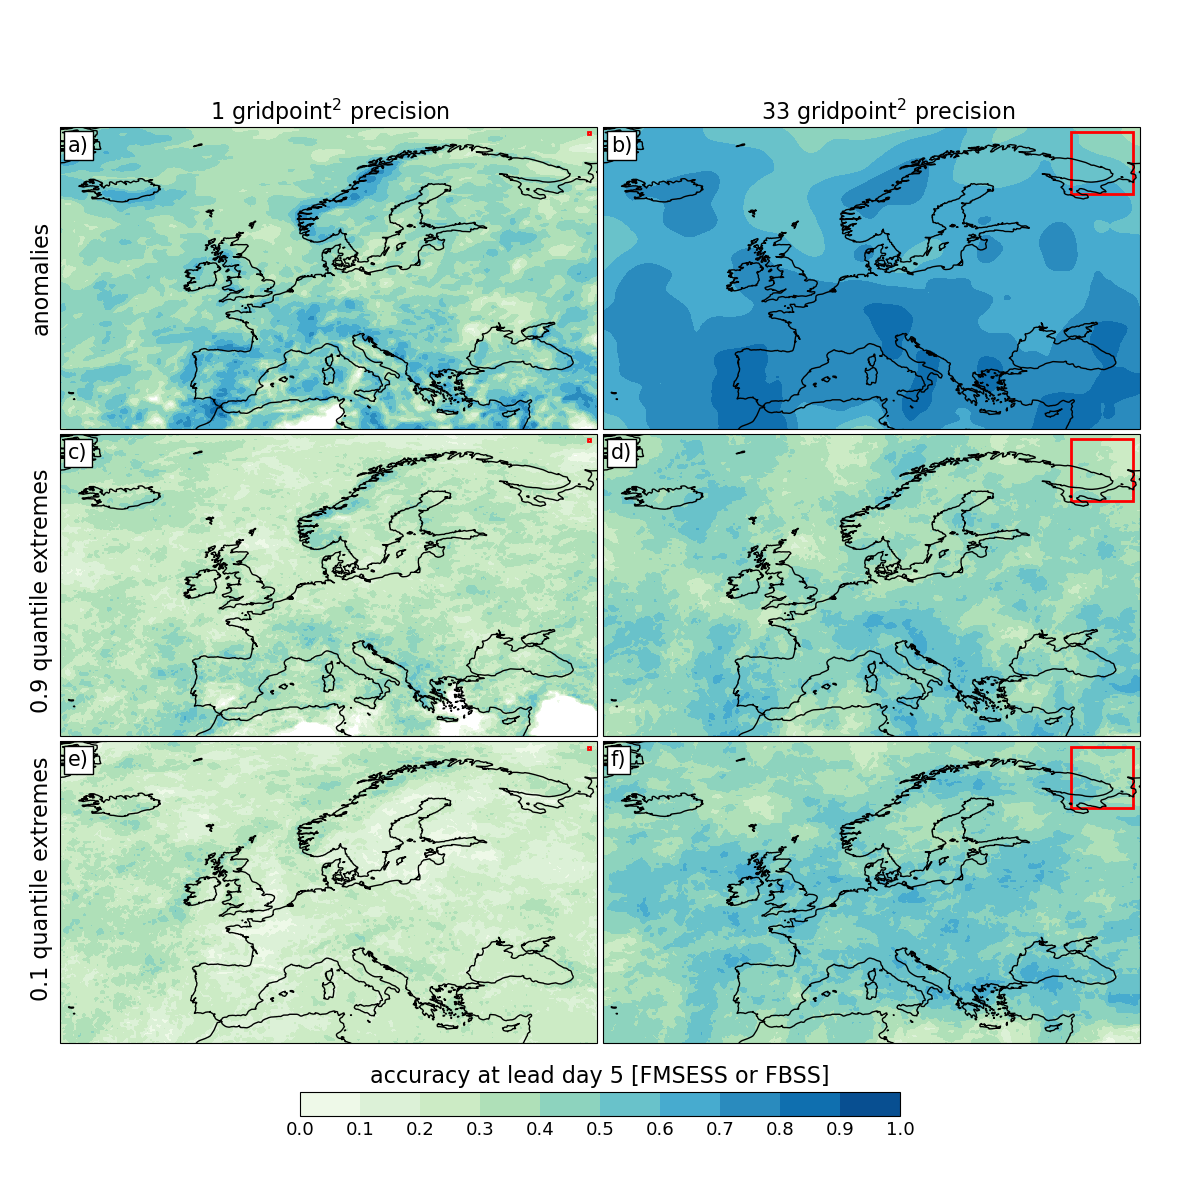
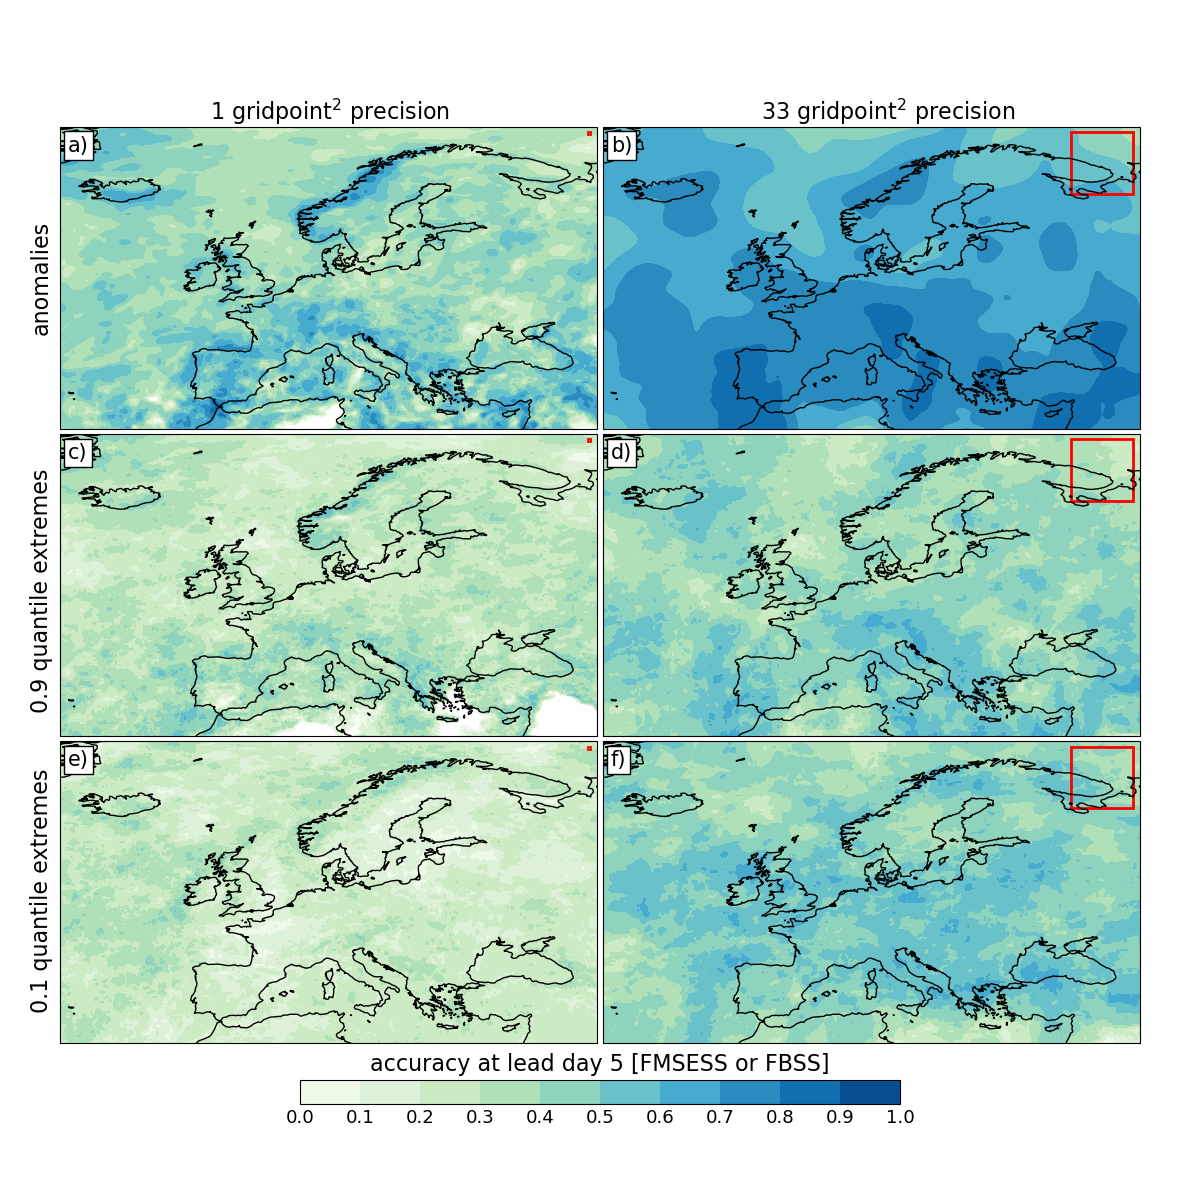
update

Changed region(s): [[0.2467, 0.8633, 0.7708, 0.9558], [0.0308, 0.6475, 0.0617, 0.8325]]

diff --git a/code/plot/plot-fig-02.py b/code/plot/plot-fig-02.py
@@ -64,7 +64,6 @@ figsize    = np.array([12,12])
 fig,ax     = plt.subplots(nrows=3,ncols=2,figsize=(figsize[0],figsize[1]),subplot_kw={'projection': ccrs.PlateCarree(central_longitude=0.0)})
 ax         = ax.ravel()
 
-#fig.subplots_adjust(right=0.95, left=0.05,top=0.975,bottom=0.05,hspace=-0.25,wspace=0.025)
 fig.subplots_adjust(right=0.95, left=0.05,top=0.975,bottom=0.05,hspace=-0.38,wspace=0.01)
 
 setup_subplot_xy(1, ax[0], 'a)', ds1, clevs, cmap, fontsize)
@@ -74,7 +73,7 @@ setup_subplot_xy(4, ax[3], 'd)', ds4, clevs, cmap, fontsize)
 setup_subplot_xy(5, ax[4], 'e)',ds5, clevs, cmap, fontsize)
 p = setup_subplot_xy(6, ax[5], 'f)', ds6, clevs, cmap, fontsize)
 
-cbar_ax = fig.add_axes([0.25, 0.07, 0.5, 0.02])
+cbar_ax = fig.add_axes([0.25, 0.08, 0.5, 0.02])
 cb = fig.colorbar(p, cax=cbar_ax, orientation='horizontal',ticks=clevs, pad=0.3)
 cb.ax.tick_params(labelsize=fontsize+2, size=0)
 cb.ax.set_title('accuracy at lead day 5 [FMSESS or FBSS]', fontsize=fontsize+5,y=1.01)
@@ -83,7 +82,7 @@ fig.text(0.275,0.9,'1 gridpoint$^{2}$ precision',horizontalalignment='center',fo
 fig.text(0.74,0.9,'33 gridpoint$^{2}$ precision',horizontalalignment='center',fontsize=fontsize+5)
 fig.text(0.025,0.725,'anomalies',rotation=90,fontsize=fontsize+5)
 fig.text(0.025,0.41,'0.9 quantile extremes',rotation=90,fontsize=fontsize+5)
-fig.text(0.025,0.17,'0.1 quantile extremes',rotation=90,fontsize=fontsize+5)
+fig.text(0.025,0.16,'0.1 quantile extremes',rotation=90,fontsize=fontsize+5)
 
 # write2file
 if write2file: plt.savefig(path_out + figname_out)
